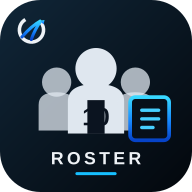
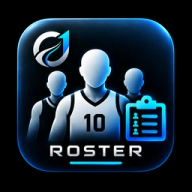
Apply approved ZERO ONE ROSTER branding
* Apply approved ZERO ONE ROSTER artwork

* Render ZERO ONE roster icons

---------

diff --git a/index.html b/index.html
@@ -1,6 +1,6 @@
 <!doctype html>
-<html lang="ja"><head><meta charset="utf-8"><meta name="viewport" content="width=device-width,initial-scale=1,viewport-fit=cover"><meta name="theme-color" content="#09111c"><title>ZERO ONE ROSTER</title><link rel="manifest" href="manifest.webmanifest?v=20261006"><link rel="icon" type="image/svg+xml" href="icons/roster.svg?v=20261006d"><link rel="alternate icon" type="image/png" sizes="192x192" href="icons/roster-192.png?v=20261006d"><link rel="apple-touch-icon" href="icons/roster-192.png?v=20261006d"><link rel="stylesheet" href="styles.css?v=0.1.32"><style>.zeroone-splash{position:fixed;inset:0;z-index:99999;display:grid;place-content:center;justify-items:center;gap:12px;color:#fff;background:radial-gradient(circle at 50% 36%,#102638,#03070c 68%);animation:zerooneSplash 1.8s ease forwards;pointer-events:none}.zeroone-splash img{width:132px;height:132px}.zeroone-splash strong{font-size:30px;letter-spacing:.18em}.zeroone-splash span{font-size:15px;letter-spacing:.3em;color:#8bcaff}@keyframes zerooneSplash{0%,70%{opacity:1}100%{opacity:0;visibility:hidden}}</style></head>
-<body><div class="zeroone-splash" aria-hidden="true"><img src="icons/roster.svg" alt=""><strong>ZERO ONE</strong><span>ROSTER</span></div><div id="appVersion" style="position:fixed;right:8px;top:max(8px,env(safe-area-inset-top));z-index:9999;font:11px -apple-system,BlinkMacSystemFont,sans-serif;color:#718096;background:#ffffffd9;border:1px solid #dce4ed;border-radius:6px;padding:3px 6px">v0.1.35</div><header class="top"><div class="hero"><div class="brand"><img class="logo" src="icons/roster.svg" alt="ZERO ONEロゴ"><div><b>ZERO ONE<br>ROSTER</b><small>Team & Player Hub</small></div></div><div class="tagline"><b>KNOW THE PLAYER. GROW THE TEAM.</b><small>選手を知る。関係をつくる。成長をつなぐ。</small></div><div class="sync"><button class="btn dark" id="connectBtn">OneDrive接続</button><button class="btn primary" id="syncBtn">同期</button><div id="syncStatus">端末保存モード</div></div></div></header>
+<html lang="ja"><head><meta charset="utf-8"><meta name="viewport" content="width=device-width,initial-scale=1,viewport-fit=cover"><meta name="theme-color" content="#09111c"><title>ZERO ONE ROSTER</title><link rel="manifest" href="manifest.webmanifest?v=20261006"><link rel="icon" type="image/svg+xml" href="icons/roster-192.png?v=20261007a"><link rel="alternate icon" type="image/png" sizes="192x192" href="icons/roster-512.png?v=20261007a"><link rel="apple-touch-icon" href="icons/roster-180.png?v=20261007a"><link rel="stylesheet" href="styles.css?v=0.1.32"><style>.zeroone-splash{position:fixed;inset:0;z-index:99999;display:grid;place-content:center;justify-items:center;gap:12px;color:#fff;background:radial-gradient(circle at 50% 36%,#102638,#03070c 68%);animation:zerooneSplash 1.8s ease forwards;pointer-events:none}.zeroone-splash img{width:132px;height:132px}.zeroone-splash strong{font-size:30px;letter-spacing:.18em}.zeroone-splash span{font-size:15px;letter-spacing:.3em;color:#8bcaff}@keyframes zerooneSplash{0%,70%{opacity:1}100%{opacity:0;visibility:hidden}}</style></head>
+<body><div class="zeroone-splash" aria-hidden="true"><img src="branding/zero-one-logo.svg?v=20261007a" alt=""><strong>ZERO ONE</strong><span>ROSTER</span></div><div id="appVersion" style="position:fixed;right:8px;top:max(8px,env(safe-area-inset-top));z-index:9999;font:11px -apple-system,BlinkMacSystemFont,sans-serif;color:#718096;background:#ffffffd9;border:1px solid #dce4ed;border-radius:6px;padding:3px 6px">v0.1.35</div><header class="top"><div class="hero"><div class="brand"><img class="logo" src="branding/zero-one-logo.svg?v=20261007a" alt="ZERO ONEロゴ"><div><b>ZERO ONE<br>ROSTER</b><small>Team & Player Hub</small></div></div><div class="tagline"><b>KNOW THE PLAYER. GROW THE TEAM.</b><small>選手を知る。関係をつくる。成長をつなぐ。</small></div><div class="sync"><button class="btn dark" id="connectBtn">OneDrive接続</button><button class="btn primary" id="syncBtn">同期</button><div id="syncStatus">端末保存モード</div></div></div></header>
 <nav><button class="on" data-view="roster">ROSTER</button><button data-view="team">TEAM</button><button data-view="records">RECORDS</button><button data-view="data">DATA</button></nav>
 <main><div class="teamContext"><label>TEAM<select id="activeTeam"><option value="">チーム読込中</option></select></label><span id="teamContextLabel">TEAM</span></div><section id="rosterView"><div class="metrics"><article><small>PLAYERS</small><strong id="playerCount">0</strong></article><article><small>ACTIVE</small><strong id="activeCount">0</strong></article><article><small>U12</small><strong id="u12Count">0</strong></article><article><small>U15+</small><strong id="u15Count">0</strong></article></div><div class="datebar"><button id="prevDate" aria-label="前の日">‹</button><input id="attendanceDate" type="date"><button id="nextDate" aria-label="次の日">›</button><button id="todayDate">今日</button><label class="activityLabel">活動 <input id="activityName" value="練習" placeholder="練習"></label><span id="attendanceCount"></span></div><div class="filterCard"><div class="filterGrid"><label>ステータス<select id="filterStatus"><option value="active" selected>在籍中</option><option value="inactive">休止・退団</option><option value="">すべて</option></select></label><label>在籍校<select id="filterSchool"><option value="">すべて</option></select></label><label>出欠<select id="filterAttendance"><option value="">すべて</option><option value="present">出席</option><option value="absent">欠席</option></select></label><label>ロスター<select id="filterRoster"><option value="">すべて</option><option>A</option><option>B</option><option>C</option><option>D</option><option>E</option><option value="none">未設定</option></select></label><label>並べ替え<select id="sortPlayers"><option value="roster">ロスター順</option><option value="birthday">生年月日順</option><option value="name">氏名順</option></select></label></div><div class="gradeFilters" id="gradeFilters"><span>学年</span></div><div class="filterFoot"><span id="filterCount"></span><button type="button" id="clearFilters" class="btn light">条件をクリア</button></div></div><section class="card practiceDay"><div class="practiceHead"><div><h2>この日の練習</h2><small id="practiceDayLabel"></small></div><button type="button" class="btn primary" id="addPracticeBtn">練習を記録</button></div><div id="practiceDayList"></div><div class="dailyTeamComment"><button type="button" class="btn light" id="addTeamCommentBtn">チームに一言</button><div id="teamCommentList"></div></div></section><div class="toolbar"><input id="search" placeholder="選手名・背番号・ポジションで検索"><button class="btn primary" id="addPlayerBtn">＋ 選手追加</button></div><div class="players" id="playerGrid"></div></section>
 <section id="teamView" hidden><div class="team"><small>ZERO ONE ROSTER</small><h2 id="teamTitle">MY TEAM</h2><p id="teamSummary">チーム情報を設定してください。</p><button class="btn primary" id="editTeamBtn">チーム設定</button></div><section class="card teamManager"><div class="practiceHead"><h2>所属チームの管理</h2><button class="btn primary" type="button" id="addTeamBtn">＋ チーム追加</button></div><p class="practiceHint">チーム名はここで編集できます。選手の所属先は選手詳細で変更してください。在籍校とは別の項目です。</p><div id="managedTeams"></div></section><div class="calendarCard"><div class="calendarHead"><button id="prevMonth">‹</button><h2 id="calendarTitle"></h2><button id="nextMonth">›</button><button id="thisMonth">今月</button><button class="btn primary" id="addActivityBtn">＋ 予定</button></div><div class="calendarWeek"><span>日</span><span>月</span><span>火</span><span>水</span><span>木</span><span>金</span><span>土</span></div><div id="monthCalendar" class="monthCalendar"></div><div id="monthSummary" class="monthSummary"></div></div><div class="analyticsCard"><div class="analyticsHead"><h2>TEAM ANALYTICS</h2><button id="analyticsMonth" class="btn light">表示月</button></div><div class="range"><label>開始<input id="analyticsFrom" type="date"></label><span>〜</span><label>終了<input id="analyticsTo" type="date"></label><button id="applyAnalytics" class="btn primary">集計</button></div><div id="analyticsMetrics" class="analyticsMetrics"></div><div id="playerAnalytics" class="playerAnalytics"></div></div></section>
